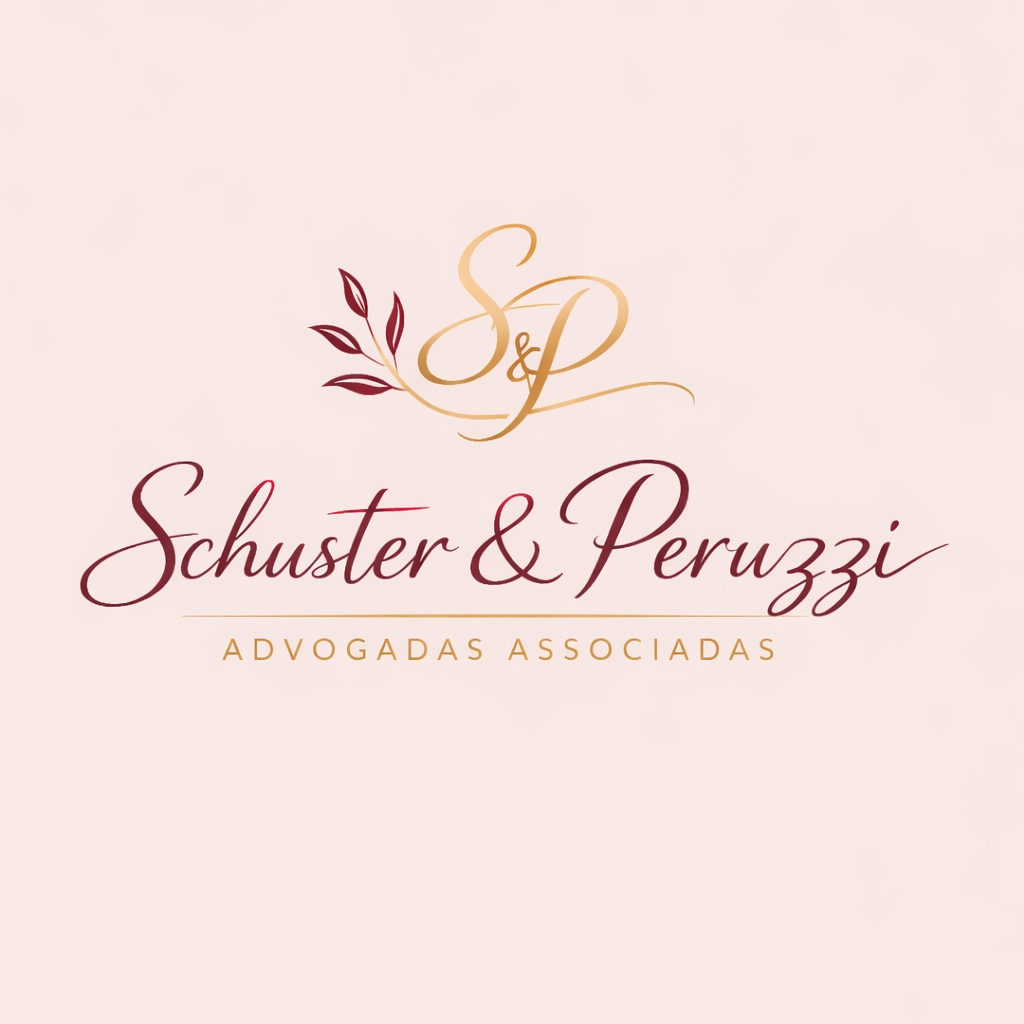
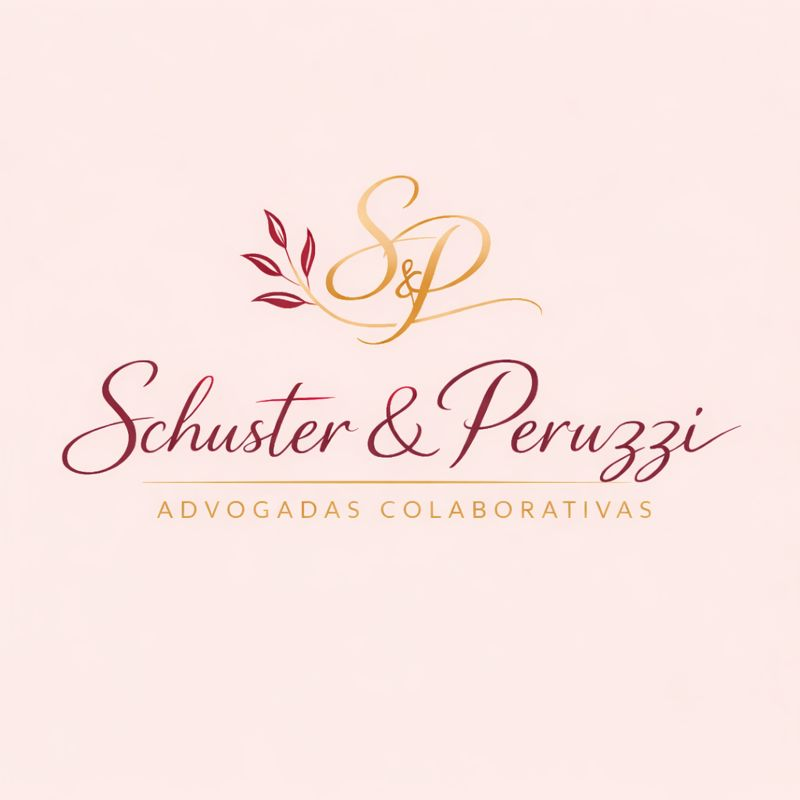
UPDATE: associadas -> colaborativas

diff --git a/index.html b/index.html
@@ -4,7 +4,7 @@
   <meta charset="UTF-8" />
   <meta name="viewport" content="width=device-width, initial-scale=1.0"/>
 
-  <title>Schuster & Peruzzi — Advogadas Associadas</title>
+  <title>Schuster & Peruzzi — Advogadas Colaborativas</title>
 
   <!-- SEO -->
   <meta name="description" content="Escritório Schuster & Peruzzi — Advocacia especializada com atendimento humanizado e excelência jurídica.">
@@ -65,7 +65,7 @@
 <section id="home" class="parallax min-h-screen flex items-center pt-24">
   <div class="bg-white/80 w-full py-24 text-center">
     <h1 class="title-font text-4xl md:text-6xl mb-6">Schuster & Peruzzi</h1>
-    <p class="tracking-widest text-sm text-[#c48a3a] mb-6">ADVOGADAS ASSOCIADAS</p>
+    <p class="tracking-widest text-sm text-[#c48a3a] mb-6">ADVOGADAS COLABORATIVAS</p>
     <p class="max-w-3xl mx-auto text-lg text-[#5b2c2c]/80">
       Atende online em todo o Estado do Rio Grande do Sul, tendo como principal objetivo fornecer serviços jurídicos de qualidade...
     </p>
